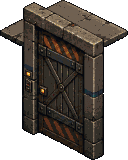
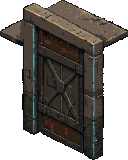
feat: 던전 공용 환경 6셀을 네온 아케이드 v3로 전환한다 (M5 1차 슬라이스)
environment-neon-style-v1 레시피 4후보 중 C03 채택 — 시안 에지 라이팅과 앰버 패널이
저채도 콘크리트 위에 얹힌 '죽은 상가의 비상 전원' 톤. 채택 시트를 v3 정식 소스로
승격하고 프로세서 경로를 올렸다. 생성 시트의 배경이 v2와 달리 불투명 검정이라
테두리 연결 플러드(허용오차 5 — dark-void 외곽선 보호)로 알파화하는 전처리를 거쳤다.
Art/Environment 16종 재마감, 실플레이 캡처 docs/captures/neon-environment-live-v1.png.
EditMode 1197 · PlayMode 2 그린.

diff --git a/Tools/ArtPipeline/process_postapoc_environment_v2.py b/Tools/ArtPipeline/process_postapoc_environment_v2.py
@@ -19,7 +19,7 @@ from torchstone_palette import lock_to_palette
 ROOT = Path(__file__).resolve().parents[2]
 SOURCE = (
     ROOT
-    / "docs/art-direction/project-c-collapsed-transit-environment-source-v2.png"
+    / "docs/art-direction/project-c-collapsed-transit-environment-source-v3.png"
 )
 STAIRS_SOURCE = (
     ROOT

diff --git a/docs/STATUS.md b/docs/STATUS.md
@@ -212,6 +212,11 @@
   입장 서사·허브/메인메뉴 UXML·장비 4종(빔 랜스/임팩트 렌치/전광판 방패/서스펜션 부츠,
   리스킨 표 §4-b)이 코드에 반영됐고 전체 회귀 그린. **병원 드레싱 에셋(hospital* 슬롯)만 구판**이며
   교체는 환경 네온 전환(M5) 재발주가 소유한다.
+  - **M5 1차 슬라이스 반영됨(2026-07-30)** — 공용 환경 6셀(바닥·좌우 벽·문 2종·계단)이
+    네온 아케이드 v3 소스(`environment-neon-style-v1` 레시피, C03 채택)로 재마감돼
+    `Art/Environment` 16종이 교체됐다. 원정자도 치비 라이더(`actor-knight.aseprite` 자동
+    조립 초안)로 교체 완료. 캡처: `docs/captures/neon-environment-live-v1.png` ·
+    `rider-ingame-live-v1.png`. 잔여: hospital* 드레싱 9슬롯·계단 특수 소스·소품 재발주.
   이전 확정(유지): 테마를 **포스트 아포칼립스/이상 미궁**으로 전환(GDD §10 v0.3).
   - **밝기 완화 패스 적용됨(v0.3.3)** — 탐색 잔상·심층 앰비언트·높이차 틴트·수직 미리보기의
     어둡기 하한을 일괄 상향해 "판독 가능한 어둠"으로 옮겼다(FOV 3상태 구분은 유지). 값은

diff --git a/docs/art-direction/project-c-collapsed-transit-environment-source-v3.prompt.md b/docs/art-direction/project-c-collapsed-transit-environment-source-v3.prompt.md
@@ -1,0 +1,10 @@
+# 환경 6셀 소스 시트 v3 — 네온 아케이드 전환 (M5)
+
+- **채택**: 2026-07-30, art_runner job `ART-20260730-033247-5b9fe8` 후보 **C03**.
+  레시피 `environment-neon-style-v1`(스타일 트랜스퍼 — v2 시트 실루엣·2:1 투영 보존,
+  denoise 0.45, Junkworld 0.15). 재현값·프롬프트 전문은 레시피와 job 스냅샷이 소유한다.
+- **전환 내용**: 콘크리트 저채도 유지 + 시안 에지 라이팅(벽 모서리·문틀·계단 측면),
+  hazard/앰버 마킹 소량. "죽은 상가에 남은 비상 전원" 무드 — 타깃
+  `project-c-combat-space-*-target-v1.png` 계열.
+- **주의**: 하행 계단 특수 소스(`stairs-source-v2`)는 이번 라운드에서 재생성하지 않았다 —
+  톤 격차가 보이면 같은 레시피로 후속 재생성한다.
